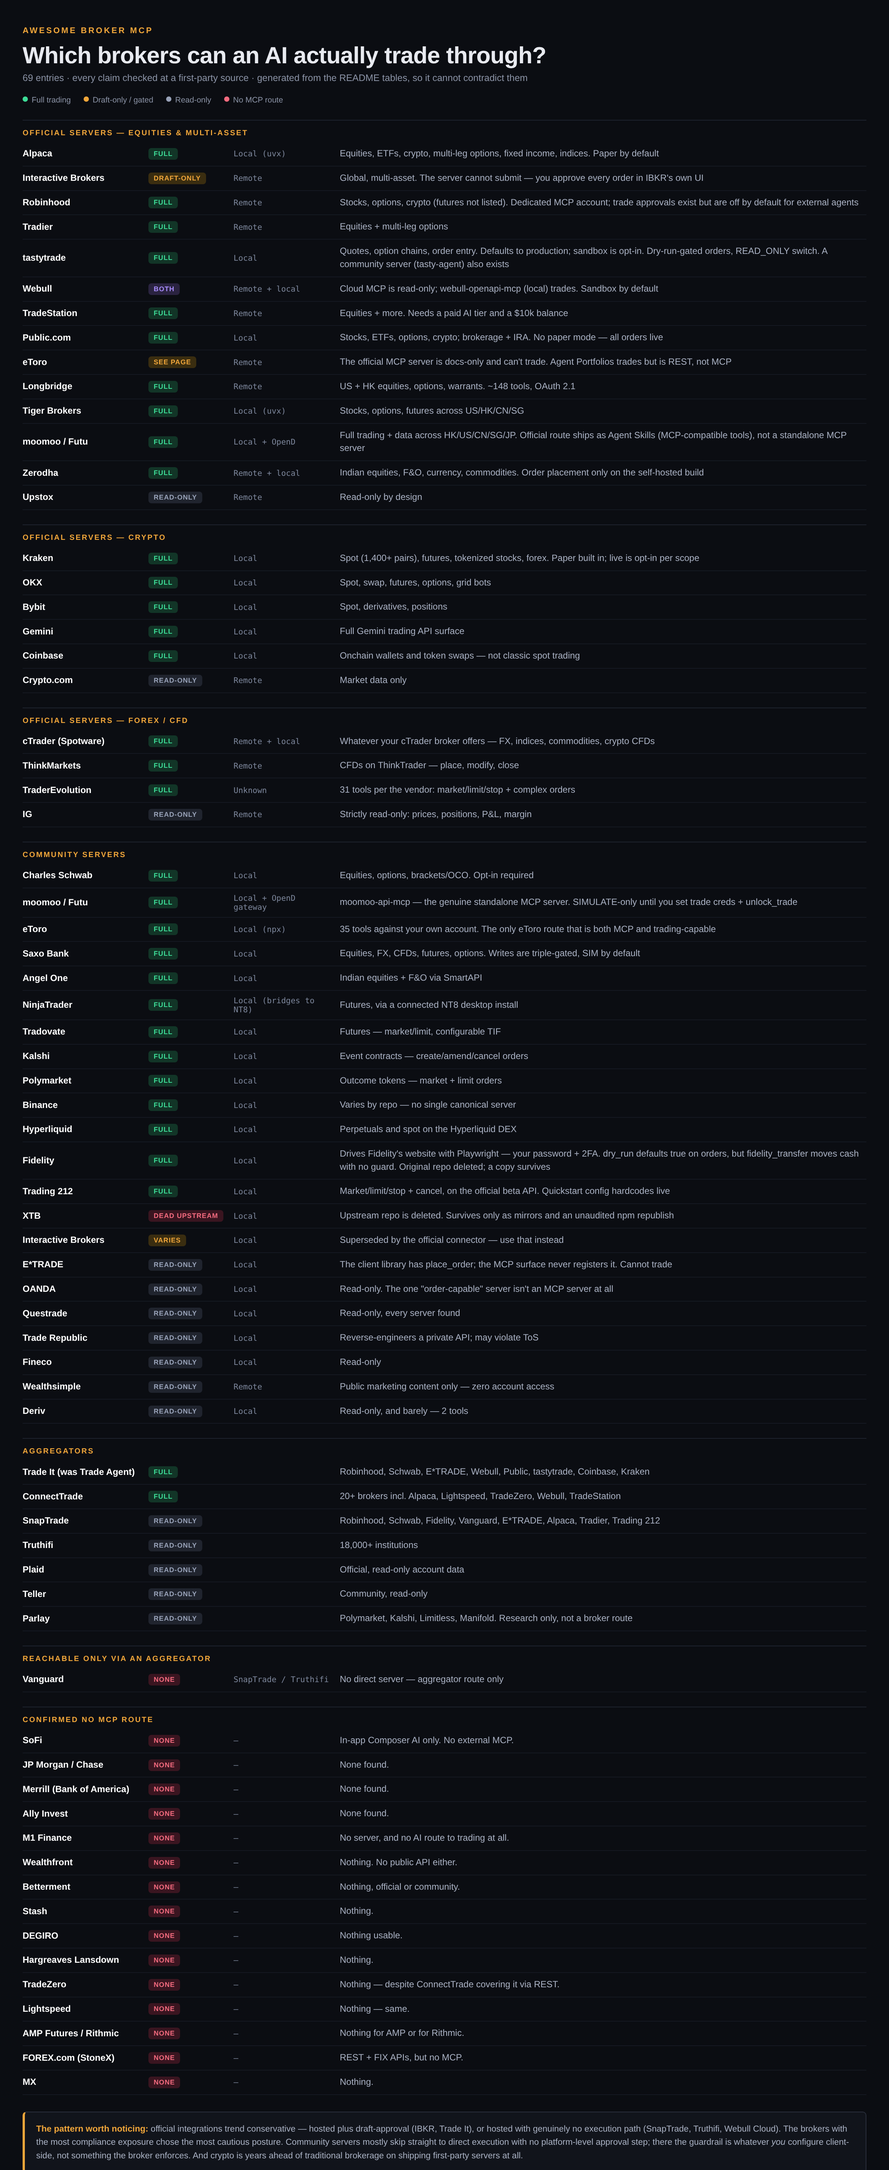
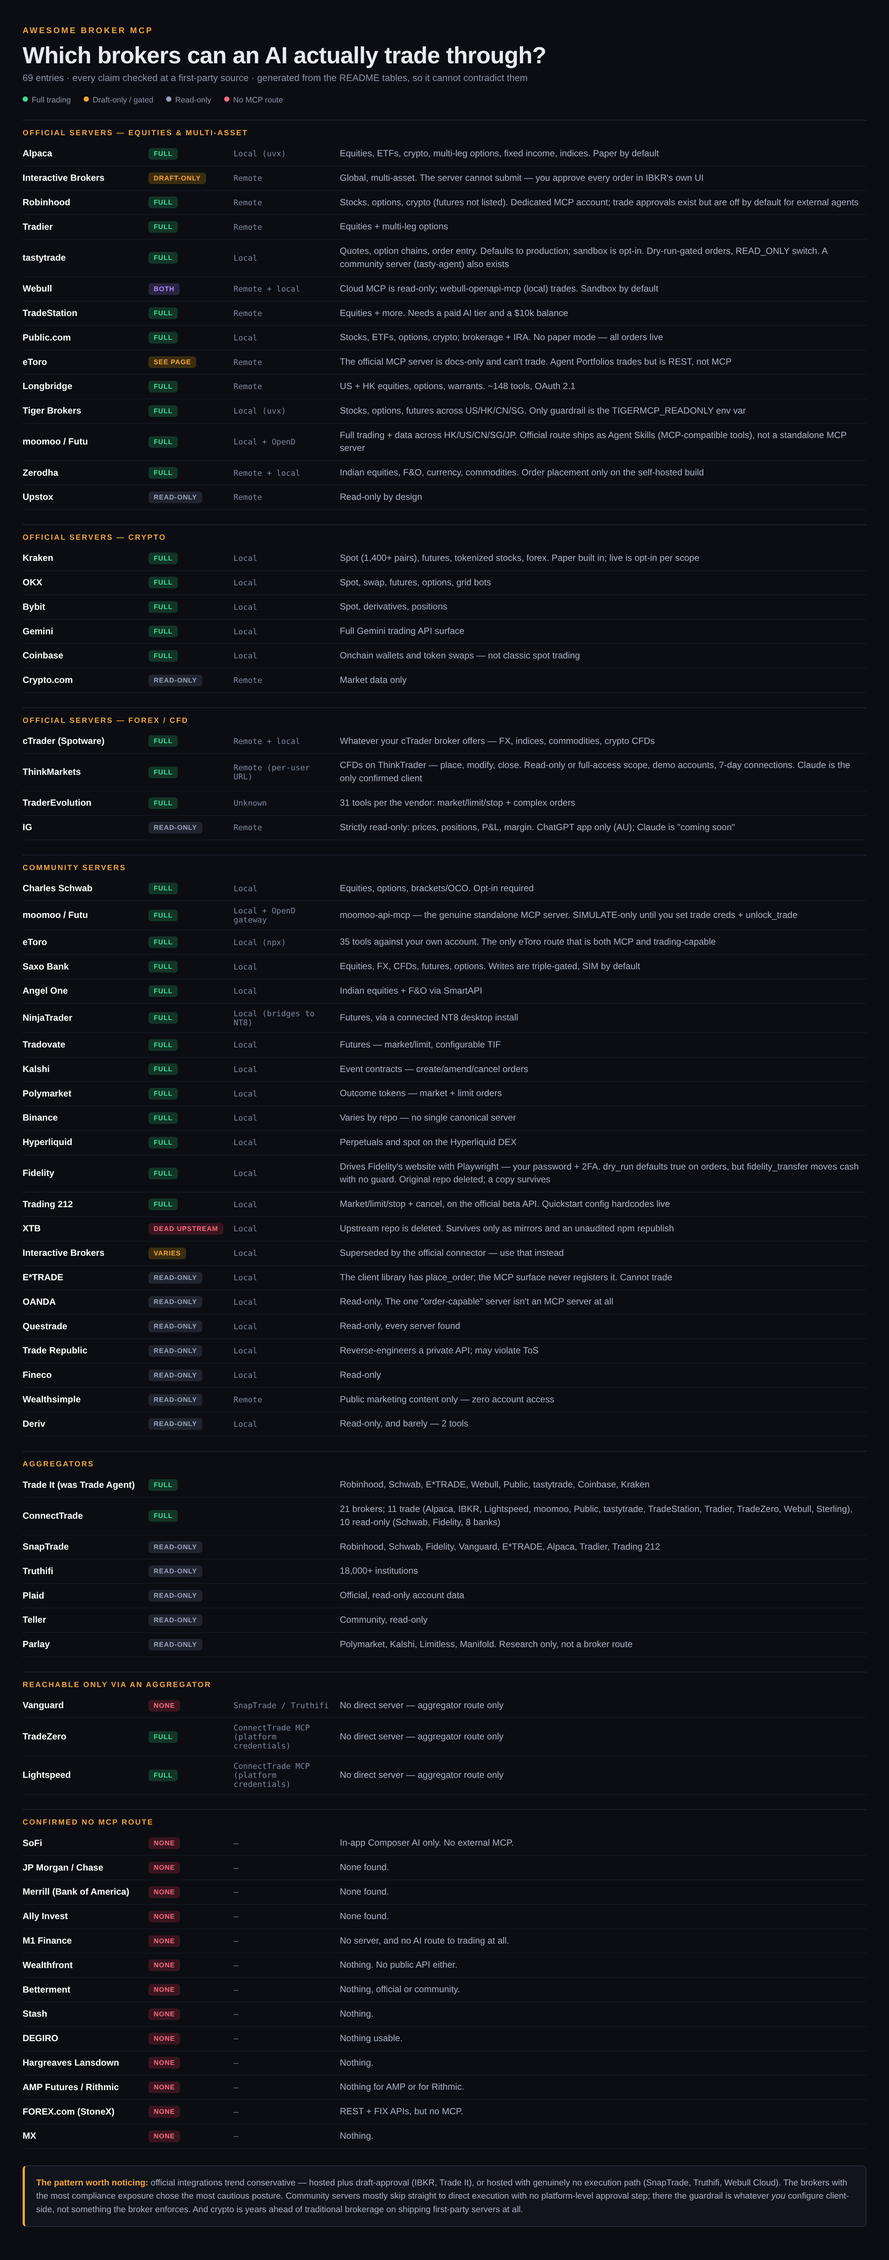
ConnectTrade: MCP is now production with documented guardrails; refresh readme (#9)

diff --git a/readme.md b/readme.md
@@ -2,14 +2,14 @@
 
 <p align="center">
   <b>Which brokers can an AI actually trade through?</b><br>
-  <sub>65 brokers checked at the source. Including the ones with nothing.</sub>
+  <sub>66 brokers checked at the source. Including the ones with nothing.</sub>
 </p>
 
 <p align="center">
   <a href="https://awesome.re"><img src="https://awesome.re/badge-flat2.svg" alt="Awesome"></a>
-  <img src="https://img.shields.io/badge/entries-65-1f6feb" alt="65 entries">
-  <img src="https://img.shields.io/badge/official%20servers-28-3fb950" alt="28 official">
-  <img src="https://img.shields.io/badge/confirmed%20no%20route-15-f85149" alt="15 confirmed none">
+  <img src="https://img.shields.io/badge/entries-66-1f6feb" alt="66 entries">
+  <img src="https://img.shields.io/badge/official%20servers-30-3fb950" alt="30 official">
+  <img src="https://img.shields.io/badge/confirmed%20no%20route-13-f85149" alt="13 confirmed none">
   <img src="https://img.shields.io/badge/last%20verified-2026--10--09-3fb950" alt="Last verified 2026-10-09">
   <a href="license"><img src="https://img.shields.io/badge/license-CC0--1.0-8957e5" alt="CC0-1.0"></a>
 </p>
@@ -106,7 +106,7 @@ place an order*.
 - **Official** — first-party, built or hosted by the broker.
 - **Community** — a third-party repo. Not endorsed by the broker. Some are excellent.
   You are still handing broker credentials to a stranger's code.
-- **Aggregator-only** — no direct server; reachable only through SnapTrade, Truthifi, etc.
+- **Aggregator-only** — no direct server; reachable only through an aggregator such as SnapTrade, Truthifi or ConnectTrade.
 - **None** — checked, confirmed nothing exists.
 
 **"Has an MCP server" and "can trade" are different claims**, and the gap between them is
@@ -140,9 +140,9 @@ say something careless:
 | Posture | Who | What it means |
 |---|---|---|
 | **Cannot execute, by design** | [IBKR](brokers/interactive-brokers.md) | The server physically can't submit. No env var turns it on. |
-| **Draft-first, prompt-enforced** | [Trade It](aggregators/trade-agent.md) | Must draft, show you, and be told to execute. A prompt rule, not a wall. |
+| **Draft-first, tool-flow enforced** | [Trade It](aggregators/trade-agent.md) · [ConnectTrade](aggregators/connecttrade.md) | Must draft, show you, then a second tool call executes (ConnectTrade adds a 2-minute expiry and read/trade token scopes). A server-side step, but the confirm is still a tool call the assistant makes, so it is only as strong as your client's human-in-the-loop. |
 | **Paper / sandbox by default** | [Alpaca](brokers/alpaca.md) · [Kraken](brokers/kraken.md) · [Webull](brokers/webull.md) | Live trading is opt-in via an env var or scope. Server-side. |
-| **Live on a tool call** | [Robinhood](brokers/robinhood.md) · [Tradier](brokers/tradier.md) · most community servers | No approval step the broker enforces by default (Robinhood has an opt-in toggle, off for MCP accounts). Your client config is the only guardrail. |
+| **Live on a tool call** | [Robinhood](brokers/robinhood.md) · [Tradier](brokers/tradier.md) · [tastytrade](brokers/tastytrade.md) (defaults to **production**) · most community servers | No approval step the broker enforces by default (Robinhood has an opt-in toggle, off for MCP accounts). Your client config is the only guardrail. |
 | **Live, and no paper mode exists** | [Public.com](brokers/public.md) | Confirm-first, but every confirmation is real money. Nothing to practise on. |
 
 **Two axes people conflate:** official/community is about *who wrote it*. local/remote
@@ -179,14 +179,14 @@ First-party. Built or hosted by the broker themselves.
 | [Public.com](brokers/public.md) | ✅ Yes | Stocks, ETFs, options, crypto; brokerage + IRA. ⚠ **No paper mode — all orders live** | Local |
 | [eToro](brokers/etoro.md) | ⚠ See page | The official MCP server is **docs-only and can't trade**. Agent Portfolios trades but is **REST, not MCP** | Remote |
 | [Longbridge](brokers/longbridge.md) | ✅ Yes | US + HK equities, options, warrants. ~148 tools, OAuth 2.1 | Remote |
-| [Tiger Brokers](brokers/tiger-brokers.md) | ✅ Yes | Stocks, options, futures across US/HK/CN/SG | Local (`uvx`) |
+| [Tiger Brokers](brokers/tiger-brokers.md) | ✅ Yes | Stocks, options, futures across US/HK/CN/SG. Only guardrail is the `TIGERMCP_READONLY` env var | Local (`uvx`) |
 | [moomoo / Futu](brokers/moomoo.md) | ✅ Yes | Full trading + data across HK/US/CN/SG/JP. ⚠ Official route ships as **Agent Skills** (MCP-compatible tools), not a standalone MCP server | Local + OpenD |
 | [Zerodha](brokers/zerodha-kite-connect.md) | ✅ Yes | Indian equities, F&O, currency, commodities. Order placement only on the self-hosted build | Remote + local |
 | [Upstox](brokers/upstox.md) | 👁 No | Read-only by design | Remote |
 
 ### ₿ Crypto
 
-*Crypto is years ahead of traditional brokerage here — four official servers that all trade.*
+*Crypto is years ahead of traditional brokerage here — five official servers that trade (Coinbase with a caveat).*
 
 | Exchange | Trades? | What it trades | Type |
 |---|---|---|---|
@@ -202,9 +202,9 @@ First-party. Built or hosted by the broker themselves.
 | Broker | Trades? | What it trades | Type |
 |---|---|---|---|
 | [cTrader (Spotware)](brokers/ctrader-spotware.md) | ✅ Yes | Whatever your cTrader broker offers — FX, indices, commodities, crypto CFDs | Remote + local |
-| [ThinkMarkets](brokers/thinkmarkets.md) | ✅ Yes | CFDs on ThinkTrader — place, modify, close | Remote |
+| [ThinkMarkets](brokers/thinkmarkets.md) | ✅ Yes | CFDs on ThinkTrader — place, modify, close. Read-only or full-access scope, demo accounts, 7-day connections. Claude is the only confirmed client | Remote (per-user URL) |
 | [TraderEvolution](brokers/traderevolution.md) | ✅ Yes | 31 tools per the vendor: market/limit/stop + complex orders | Unknown |
-| [IG](brokers/ig.md) | 👁 No | Strictly read-only: prices, positions, P&L, margin | Remote |
+| [IG](brokers/ig.md) | 👁 No | Strictly read-only: prices, positions, P&L, margin. ⚠ **ChatGPT app only (AU)**; Claude is "coming soon" | Remote |
 
 ## 👥 Community servers
 
@@ -239,13 +239,13 @@ effectively dead.
 
 ## 🔗 Aggregators
 
-One endpoint, many brokers. **Almost all are read-only** — good for "what do I hold
+One endpoint, many brokers. **Most are read-only** — good for "what do I hold
 everywhere," not a substitute for a broker's own trading server.
 
 | Aggregator | Trades? | Covers |
 |---|---|---|
 | [Trade It](aggregators/trade-agent.md) *(was Trade Agent)* | ✅ Yes — 🛡 draft-first, explicit confirm | Robinhood, Schwab, E*TRADE, Webull, Public, tastytrade, Coinbase, Kraken |
-| [ConnectTrade](aggregators/connecttrade.md) | ✅ Yes — early access. ⚠ Guardrails undocumented | 20+ brokers incl. Alpaca, Lightspeed, TradeZero, Webull, TradeStation |
+| [ConnectTrade](aggregators/connecttrade.md) | ✅ Yes — 🛡 mandatory two-step confirm, scoped tokens. B2B: needs platform credentials | 21 brokers; 11 trade (Alpaca, IBKR, Lightspeed, moomoo, Public, tastytrade, TradeStation, Tradier, TradeZero, Webull, Sterling), 10 read-only (Schwab, Fidelity, 8 banks) |
 | [SnapTrade](aggregators/snaptrade.md) | 👁 No — read-only, stated outright | Robinhood, Schwab, Fidelity, Vanguard, E*TRADE, Alpaca, Tradier, Trading 212 |
 | [Truthifi](aggregators/truthifi.md) | 👁 No — reads only; 2 non-financial write tools | 18,000+ institutions |
 | [Plaid](aggregators/plaid.md) | 👁 No | Official, read-only account data |
@@ -264,6 +264,8 @@ No direct server, official or community.
 | Broker | Route | Trading |
 |---|---|---|
 | [Vanguard](brokers/vanguard.md) | SnapTrade / Truthifi | ❌ None |
+| [TradeZero](brokers/tradezero.md) | ConnectTrade MCP (platform credentials) | ✅ Yes, via ConnectTrade |
+| [Lightspeed](brokers/lightspeed.md) | ConnectTrade MCP (platform credentials) | ✅ Yes, via ConnectTrade |
 
 > Fidelity and Trading 212 used to sit here. Both were wrong — each has a direct
 > community server that places real orders. They're in
@@ -275,7 +277,7 @@ Checked and found nothing. Not "unknown" — **confirmed negative**, which is th
 point of writing them down. If your broker is here, you've saved an afternoon.
 
 <details>
-<summary><b>15 brokers with no MCP route</b> — click to expand</summary>
+<summary><b>13 brokers with no MCP route</b> — click to expand</summary>
 
 <br>
 
@@ -291,8 +293,6 @@ point of writing them down. If your broker is here, you've saved an afternoon.
 | [Stash](brokers/stash.md) | Nothing. |
 | [DEGIRO](brokers/degiro.md) | Nothing usable. |
 | [Hargreaves Lansdown](brokers/hargreaves-lansdown.md) | Nothing. |
-| [TradeZero](brokers/tradezero.md) | Nothing — despite ConnectTrade covering it via REST. |
-| [Lightspeed](brokers/lightspeed.md) | Nothing — same. |
 | [AMP Futures / Rithmic](brokers/amp-futures-rithmic.md) | Nothing for AMP or for Rithmic. |
 | [FOREX.com (StoneX)](brokers/forex-com-stonex.md) | REST + FIX APIs, but no MCP. |
 | [MX](aggregators/mx.md) | Nothing. |
@@ -306,7 +306,7 @@ official/community** — Alpaca and Kraken are both official *and* local.
 
 - **Remote / hosted** — paste a URL or add the connector, done. IBKR, Robinhood,
   Tradier, Webull Cloud (read-only), eToro Agent Portfolios, Longbridge, Upstox, IG,
-  ThinkMarkets, Crypto.com, SnapTrade, Trade Agent, Truthifi, Plaid.
+  ThinkMarkets, Crypto.com, SnapTrade, Trade It, ConnectTrade, Parlay, Truthifi, Plaid.
 - **Local** — a process runs on your machine. Alpaca (`uvx`), Kraken, OKX, Bybit,
   Gemini, TradeStation, Public.com, Coinbase (stdio), Tiger, community eToro (`npx`),
   moomoo (needs OpenD — two processes), tastytrade, E*TRADE, Schwab, Saxo, NinjaTrader
@@ -322,8 +322,8 @@ brokerage account. Some things worth sitting with first:
   a Discord message, that text can carry instructions. When the same agent holds a
   trading tool, a hostile string is one hop from an order. The blast radius of a
   jailbreak stops being "wrong answer" and starts being "wrong position."
-- **Prefer draft-first.** IBKR's official connector and Trade Agent both build an order
-  and require an explicit human confirm. That pattern exists because the vendors
+- **Prefer draft-first.** IBKR's official connector, Trade It and ConnectTrade all build an
+  order and require a separate confirm step. That pattern exists because the vendors
   thought about this. It's the shape you want.
 - **Prefer paper-by-default.** Alpaca (`ALPACA_PAPER_TRADE=true`) and Kraken (paper
   scope on, trade scope off) both ship safe defaults. That's a real signal about how

diff --git a/aggregators/connecttrade.md b/aggregators/connecttrade.md
@@ -4,8 +4,8 @@ region: US
 status: official
 trading: true
 server_type: remote
-source_url: https://connecttrade.com/faq
-last_verified: 2026-07-16
+source_url: https://connecttrade.com/docs/mcp
+last_verified: 2026-10-09
 confidence: high
 ---
 
@@ -13,77 +13,101 @@ confidence: high
 
 ## Overview
 
-A trading-capable multi-broker aggregator that **now ships its own official MCP
-server** — currently in early access.
+A hosted, trading-capable, multi-broker aggregator with its own **official MCP server, now
+documented for production use**. ConnectTrade is a B2B product: fintech platforms get one
+integration across 21 brokers, and AI agents reach those brokers through the MCP server.
 
-From ConnectTrade's FAQ: *"The Connect Trade MCP server is currently available in early
-access to qualified platforms,"* describing *"a server-side Model Context Protocol
-integration that gives AI platforms and fintech applications direct, structured access
-to the Connect Trade API."*
+From ConnectTrade's own llms.txt: *"The MCP server is available for production use.
+Customers with Connect Trade platform credentials and a connected user can get started."*
+It works with Claude Code, Cursor, Windsurf, VS Code (Copilot agent mode) and Codex CLI
+per their integration guide.
 
-On trading specifically: *"AI agents connected through the Connect Trade MCP server can
-retrieve account balances, positions, and transaction history, stream real-time market
-data, and **place and cancel trades across more than 20 brokers**."*
+That makes it one of two hosted, trading-capable, multi-broker MCP aggregators in this
+directory. The other is [Trade It](trade-agent.md).
 
-The homepage corroborates and names ChatGPT, Claude, Gemini, Copilot and Cursor.
-
-> ### We said this didn't exist. Here's why we were wrong.
->
-> This page previously stated "there is no MCP server here" and "this is not currently
-> connectable to Claude," sourced from `connecttrade.com/openapi.json`.
->
-> Re-reading that spec: it **still** contains no mention of MCP. Our note was accurate
-> *about that document* and wrong *about the product*. We keyed the entry on the wrong
-> source — an API spec is not where a vendor announces a protocol integration.
->
-> The lesson worth keeping: **a source that can't disprove a claim isn't evidence
-> against it.** "Not in the OpenAPI spec" was never the same as "doesn't exist."
-
-That makes ConnectTrade the rare thing in this directory: a hosted, trading-capable,
-multi-broker MCP aggregator. [Trade Agent](trade-agent.md) is the only other one.
+> **Correction history.** An earlier version said "there is no MCP server here", keyed on
+> `connecttrade.com/openapi.json`, which has no MCP mention. Then a version said "early
+> access, guardrails undocumented", which was true of the FAQ at the time. Both are
+> superseded: on 2026-10-09 the MCP is described as production-ready, with a public
+> integration guide and a documented confirmation flow. A source that cannot disprove a
+> claim is not evidence against it, and a vendor's docs move.
 
 ## How to connect
 
-Early access, "available to qualified platforms" — this is not a paste-a-URL signup
-today. You apply.
+Endpoint: `https://mcp.connecttrade.com/mcp` (Streamable HTTP). A POST `initialize`
+returns 401 without a token, so it is live and behind auth.
 
-The underlying REST + WebSocket API remains available directly: `POST` against
-`https://api.connecttrade.com` with `client-id`/`client-secret` (platform) plus
-`user-id`/`user-secret` (per end-user). Streams at `wss://stream.connecttrade.com`
-(account/broker data) and `wss://mdstream.connecttrade.com` (market data).
+You need **platform credentials** (`client_id` + `client_secret`, issued by ConnectTrade;
+the docs point to their contact page) and a provisioned, broker-connected user (`user_id` + `user_secret`).
+This is not a consumer signup. Then:
+
+1. Mint a short-lived JWT (1 hour) from `POST https://api.connecttrade.com/auth/tokens/user`
+   with `{"scopes": ["read"]}` for read-only or `{"scopes": ["read", "trade"]}` to trade.
+2. Register the server with that token as a Bearer header, e.g. Claude Code:
+
+```bash
+claude mcp add --transport http connecttrade https://mcp.connecttrade.com/mcp \
+  --header "Authorization: Bearer YOUR_JWT_HERE"
+```
+
+When the JWT expires MCP calls return 401 and you re-mint. A sample client
+(`ct-sample-mcp-client`, FastAPI + Claude API tool calling) is referenced in the guide.
+
+The REST + WebSocket API is also available directly: `https://api.connecttrade.com`,
+streams at `wss://stream.connecttrade.com` (account data) and
+`wss://mdstream.connecttrade.com` (market data).
 
 ## Trading scope
 
-Full order lifecycle across 20+ brokers: create, retrieve, cancel, replace. Single-leg
-and multi-leg options orders. Plus reads for users, connections, accounts, balances,
-positions, transactions, and order history.
+ConnectTrade's own capability matrix (read 2026-10-09) lists **21 brokers**, of which **11
+support equities trading** and options: Alpaca, Interactive Brokers, Lightspeed, moomoo,
+Public, Sterling Trading Technologies, tastytrade, TradeStation, Tradier, TradeZero and
+Webull. Futures: Interactive Brokers, tastytrade, TradeStation, Tradier, Webull. Crypto:
+Alpaca, Public, tastytrade, Webull. Paper trading: Alpaca, TradeStation, Tradier, TradeZero.
 
-Broker coverage per the OpenAPI examples: Alpaca, Lightspeed, TradeZero, Webull,
-TradeStation. Note the FAQ claims "more than 20 brokers" — the spec's examples are not
-an exhaustive list, and we have not seen the full one.
+The other 10 are **read-only connections** (accounts, positions, transactions): Charles
+Schwab, Fidelity, and eight banks (Bank of America, Capital One, Chase, Citi, PNC, TD Bank,
+U.S. Bank, Wells Fargo). Their llms.txt describes the API as covering equities, single-leg
+and multi-leg options, and futures, with order place, replace and cancel.
 
 ## Safety / guardrails
 
-**Not documented in what's publicly fetchable**, and that gap matters here more than
-most: this is a hosted server that can place and cancel trades across many brokers at
-once. Whether there's a draft-first step, a confirmation requirement, or per-scope
-permissions is unknown to us.
+Documented in the integration guide:
 
-[Trade Agent](trade-agent.md), the comparable product, documents a draft-first model
-explicitly. ConnectTrade doesn't, as far as we can see. Ask before you connect it.
+- **Mandatory two-step confirmation.** `create_order()` returns a `confirmation_id` and a
+  human-readable summary; the order is only submitted when `confirm_trade(confirmation_id)`
+  is called. Pending orders **expire after 2 minutes**. The guide says "there is no way to
+  bypass this."
+- **Scopes enforced per tool.** A token without the `trade` scope cannot trade, and trading
+  also needs a broker connection created with trading enabled.
+- **Rate limits:** 60 requests/min per user across all tools, 30/min on trade tools.
+- Broker-side errors (buying power, market closed, bad symbol) pass through.
 
 ## Caveats
 
-- **Early access.** Availability, terms and behaviour may change; "qualified platforms"
-  is undefined publicly.
-- No pricing, auth-approval process, or confirmation of which of the 20+ brokers are
-  fully live vs. in progress.
-- Guardrails undocumented — see above.
+- **The confirmation is a second tool call.** The guide describes "User confirms → LLM
+  calls `confirm_trade`". It does not say how the server verifies a human made that
+  decision, so the control is as strong as your client's human-in-the-loop. The guide itself
+  tells integrators to build "a confirmation flow for trades".
+- B2B only: needs platform credentials from ConnectTrade and an already-connected user.
+  Pricing is a separate page and was not read.
+- Tool names beyond `create_order` and `confirm_trade` were not listed in the pages read, and
+  the server was not exercised with credentials.
+- The broker matrix is ConnectTrade's own claim; individual broker capabilities were not
+  tested. Their llms.txt says new brokers are added monthly, so expect drift.
+- `connecttrade.com/openapi.json` still has no MCP mention. The MCP guide is at
+  `/docs/mcp`, which is where to look, not the spec.
 
 ## Sources
+
+Checked directly on 2026-10-09:
+
+- <https://connecttrade.com/docs/mcp> (integration guide)
+- <https://connecttrade.com/llms.txt>
+- <https://connecttrade.com/llms-full.txt> (broker capability matrix, FAQ)
+- <https://mcp.connecttrade.com/mcp> (endpoint, 401 without token)
 
 Checked directly on 2026-07-16:
 
 - <https://connecttrade.com/faq>
-- <https://connecttrade.com/>
-- <https://connecttrade.com/openapi.json> (contains no MCP references — see Overview)
+- <https://connecttrade.com/openapi.json> (no MCP references)

diff --git a/brokers/tradezero.md b/brokers/tradezero.md
@@ -1,8 +1,8 @@
 ---
 name: TradeZero
 region: US
-status: none
-trading: false
+status: aggregator-only
+trading: true
 server_type: n/a
 source_url: https://developer.tradezero.com/docs/documentation
 last_verified: 2026-07-16
@@ -21,13 +21,22 @@ equities, multi-leg options, short locates, account data and real-time streams,
 generated from an OpenAPI definition. That makes it arguably the strongest DIY-wrapper
 candidate in this cluster, but no such wrapper exists today.
 
+## Update 2026-10-09: reachable through ConnectTrade
+
+ConnectTrade's own capability matrix (<https://connecttrade.com/llms-full.txt>) lists
+TradeZero with equities and options trading and paper trading. ConnectTrade has a [documented, production MCP
+server](../aggregators/connecttrade.md) with a mandatory two-step trade confirmation, but it
+needs ConnectTrade platform credentials and is aimed at fintech platforms, not individuals.
+So there is still no MCP from TradeZero itself; the only MCP route is via that aggregator.
+This was read from ConnectTrade's docs, not tested with credentials.
+
 ## How to connect
 
-Nothing to connect. See Overview — no MCP route was found.
+No broker-run MCP exists. The only route is the ConnectTrade aggregator (see the update above).
 
 ## Trading scope
 
-None.
+None directly. Via ConnectTrade only: equities and options per its capability matrix.
 
 ## Caveats
 

diff --git a/brokers/lightspeed.md b/brokers/lightspeed.md
@@ -1,8 +1,8 @@
 ---
 name: Lightspeed
 region: US
-status: none
-trading: false
+status: aggregator-only
+trading: true
 server_type: n/a
 source_url: https://lightspeed.com/trading/api-trading
 last_verified: 2026-07-16
@@ -20,13 +20,22 @@ Trading page makes no mention of MCP, AI agents or Claude. Lightspeed does offer
 exchanges with multiple routing options and a certification environment for paper
 trading — a DIY-wrapper candidate, but not an MCP server.
 
+## Update 2026-10-09: reachable through ConnectTrade
+
+ConnectTrade's own capability matrix (<https://connecttrade.com/llms-full.txt>) lists
+Lightspeed with equities and options trading. ConnectTrade has a [documented, production MCP
+server](../aggregators/connecttrade.md) with a mandatory two-step trade confirmation, but it
+needs ConnectTrade platform credentials and is aimed at fintech platforms, not individuals.
+So there is still no MCP from Lightspeed itself; the only MCP route is via that aggregator.
+This was read from ConnectTrade's docs, not tested with credentials.
+
 ## How to connect
 
-Nothing to connect. See Overview — no MCP route was found.
+No broker-run MCP exists. The only route is the ConnectTrade aggregator (see the update above).
 
 ## Trading scope
 
-None.
+None directly. Via ConnectTrade only: equities and options per its capability matrix.
 
 ## Caveats
 
